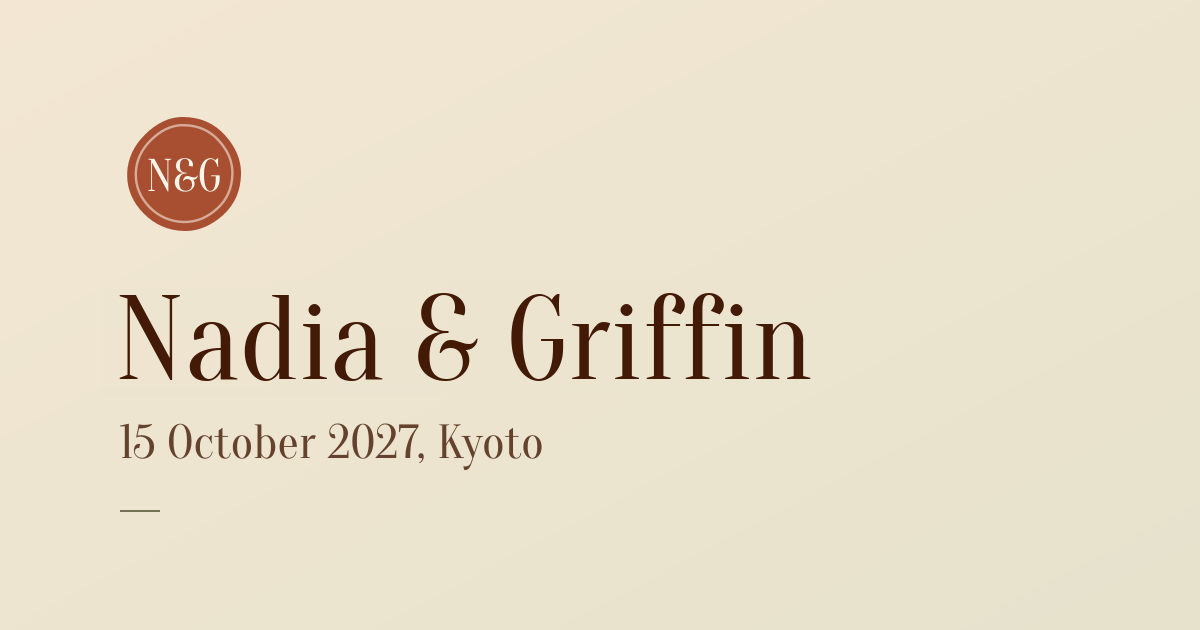
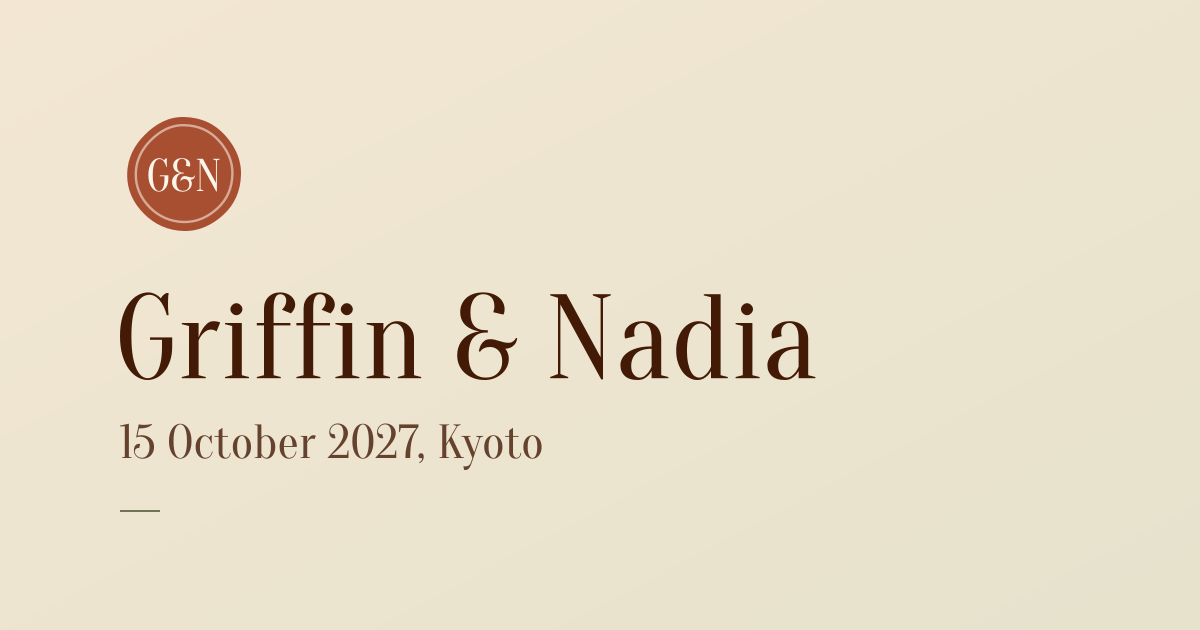
feat: put Griffin first in the names everywhere
The planner Q&A answer is "Griffin and Nadia". The site title, letter heading, meta tags, share image, seal, invite and confirmation emails, the Japanese and the name constants now lead with Griffin. Lines about one of them (Griffin in the cedars, each line on the map) name that person directly so they don't flip with the order.

Changed region(s): [[0.0925, 0.4524, 0.6783, 0.6032], [0.1233, 0.2413, 0.185, 0.3016]]

diff --git a/src/content/ja.ts b/src/content/ja.ts
@@ -12,15 +12,18 @@ const LOCK = "2027年4月30日（金）"
 const TRAVEL_FROM = "2027年9月1日（水）"
 const TRAVEL_TO = "2027年11月30日（火）"
 const CHANGE_BY = `${LOCK}まで、お返事は変更できます。`
-const A = "ナディア"
-const B = "グリフィン"
+const A = "グリフィン"
+const B = "ナディア"
+// Lines about one of them name that person, whatever the order
+const NADIA = "ナディア"
+const GRIFFIN = "グリフィン"
 const BOTH = `${A} & ${B}`
 
 export const ja: DeepPartial<Content> = {
-  meta: { shortTitle: "N&G", title: BOTH, eyebrow: "スーパーデューパー・ウェディング・エクストラバガンザ", fullTitle: "ナディア・バグリー & グリフィン・サダビー スーパーデューパー・ウェディング・エクストラバガンザ" },
+  meta: { shortTitle: "G&N", title: BOTH, eyebrow: "スーパーデューパー・ウェディング・エクストラバガンザ", fullTitle: "グリフィン・サダビー & ナディア・バグリー スーパーデューパー・ウェディング・エクストラバガンザ" },
   nav: { home: "ホーム", day: "当日", travel: "アクセス", faqs: "よくある質問", story: "ふたりのこと", rsvp: "出欠のお返事" },
   letter: {
-    signOff: "愛をこめて、N & G",
+    signOff: "愛をこめて、G & N",
     credit: "サイト制作：Jehan Baguley",
     skip: "本文へ移動",
     open: "タップしてひらく",
@@ -39,7 +42,7 @@ export const ja: DeepPartial<Content> = {
     "couple-dog-jumper": { alt: `セーターを着た犬と${A}と${B}`, caption: "お気に入りの一枚" },
     "trio-mountain-town": { alt: `山あいの町で家族と${A}と${B}`, caption: "家族との旅" },
     "torii-mist": { alt: "霧の中の赤い鳥居", caption: "道すがらの霧の鳥居" },
-    "griffin-cedar-forest": { alt: `杉の大木の間に立つ${B}`, caption: `杉林の${B}` },
+    "griffin-cedar-forest": { alt: `杉の大木の間に立つ${GRIFFIN}`, caption: `杉林の${GRIFFIN}` },
     "couple-osaka-castle": { alt: `大阪城の前に立つ${A}と${B}`, caption: "大阪に着くなら、お城も立ち寄る価値あり" },
     "yasaka-gate-shijo": { alt: "八坂神社の門から四条通を見下ろす", caption: "八坂神社から四条通を望む。会場から徒歩10分" },
     "higashiyama-bookshop": { alt: "東山の静かな通りと本屋", caption: "会場のある東山。坂を上れば清水寺" },
@@ -86,10 +89,10 @@ export const ja: DeepPartial<Content> = {
     review: "出発地", notSaying: "未回答",
     onMap: "あなたの線が地図に加わりました", seeIt: "地図を見る", notPicked: "出発地を選ぶと、あなたの線が地図に加わります。", pick: "都市を選ぶ",
     kyoto: "京都・2027年10月15日", brisbane: "ブリスベン", canada: "カナダ",
-    legend: { nadia: A, griffin: B, guests: "ゲスト", you: "あなたの線" },
+    legend: { nadia: NADIA, griffin: GRIFFIN, guests: "ゲスト", you: "あなたの線" },
     count: (n: number, of: number) => `${of}本中${n}本の線が描かれました`,
     backToFortune: "おみくじに戻る", seeList: "リストで見る", seeMap: "地図で見る",
-    list: { nadia: `${A}：ブリスベンから京都へ`, griffin: `${B}：カナダから京都へ`, you: (city: string) => `あなたの線：${city}から京都へ`, city: (city: string, n: number) => `${city}：${n}本` },
+    list: { nadia: `${NADIA}：ブリスベンから京都へ`, griffin: `${GRIFFIN}：カナダから京都へ`, you: (city: string) => `あなたの線：${city}から京都へ`, city: (city: string, n: number) => `${city}：${n}本` },
   },
   flying: { cities: { Brisbane: "ブリスベン", Melbourne: "メルボルン", Sydney: "シドニー", Perth: "パース", Adelaide: "アデレード", "Elsewhere in Australia": "オーストラリアのその他の地域", Canada: "カナダ", "Already in Japan": "日本国内から", "Somewhere else": "その他" }, title: "どちらから来られますか？", hint: "任意です。人数のみ表示し、お名前は表示しません。", thanks: "ありがとうございます。", yours: (city: string) => `${city}からの線を描きました。`, change: "変更" },
   fortune: { title: "旅のささやかなおみくじ", draw: "ひく", blessing: "大吉", blessingEn: "大吉", number: (n: number, of: number) => `第${n}番（全${of}番）`, save: "スマホに保存", copied: "コピーしました。メモに貼り付けてください。", hint: "箱をタップしてひいてください。", hintShake: "箱をタップするか、スマホを軽く振ってください。", boxLabel: "おみくじの箱。おみくじをひく", drawing: "箱を振っています…", onMap: "地図であなたの線を見る" },

diff --git a/src/content/en.ts b/src/content/en.ts
@@ -11,7 +11,7 @@ const LOCK = fmtDay(DATES.changesLock)
 const CHANGE_BY = `You can change your reply until ${LOCK}.`
 
 // The couple's names live here once. Swapping the order is this one line.
-export const COUPLE = { first: "Nadia", second: "Griffin" }
+export const COUPLE = { first: "Griffin", second: "Nadia" }
 
 // The venue for taxi drivers, in one place (Show the driver, the day sheet, Details).
 export const VENUE = {
@@ -38,6 +38,9 @@ export const FORTUNES = [
 ]
 const A = COUPLE.first
 const B = COUPLE.second
+// Lines about one of them (their photo, their line on the map) name that person, whatever the order
+const NADIA = "Nadia"
+const GRIFFIN = "Griffin"
 const BOTH = `${A} & ${B}`
 
 export const en = {
@@ -45,11 +48,11 @@ export const en = {
     shortTitle: `${A[0]}&${B[0]}`,
     title: `${BOTH}`,
     eyebrow: "The Super Duper Wedding Extravaganza",
-    fullTitle: `Nadia Baguley and Griffin Suddaby Super Duper Wedding Extravaganza`,
+    fullTitle: `Griffin Suddaby and Nadia Baguley Super Duper Wedding Extravaganza`,
   },
   nav: { home: "Home", day: "The day", travel: "Travel", faqs: "FAQs", story: "Our story", rsvp: "RSVP" },
   letter: {
-    signOff: "With love, N & G",
+    signOff: "With love, G & N",
     credit: "Site by Jehan Baguley",
     skip: "Skip to the letter",
     open: "Tap to open",
@@ -69,7 +72,7 @@ export const en = {
     "couple-dog-jumper": { alt: `${A} and ${B} with a dog in a jumper`, caption: "A fun one" },
     "trio-mountain-town": { alt: `${A} and ${B} with family in a mountain town`, caption: "A trip with family" },
     "torii-mist": { alt: "A red torii gate in the mist", caption: "Misty torii on the way" },
-    "griffin-cedar-forest": { alt: `${B} among tall cedar trees`, caption: `${B} in the cedars` },
+    "griffin-cedar-forest": { alt: `${GRIFFIN} among tall cedar trees`, caption: `${GRIFFIN} in the cedars` },
     "couple-osaka-castle": { alt: `${A} and ${B} in front of Osaka Castle`, caption: "If you fly into Osaka, the castle's worth a stop" },
     "yasaka-gate-shijo": { alt: "Looking down Shijo-dori from the gate of Yasaka Shrine", caption: "Looking down Shijo-dori from Yasaka Shrine, 10 minutes' walk from the venue" },
     "higashiyama-bookshop": { alt: "A quiet street and bookshop in Higashiyama", caption: "Higashiyama, the venue's neighbourhood. Kiyomizu-dera is up the hill" },
@@ -101,10 +104,10 @@ export const en = {
     review: "Flying from", notSaying: "Not saying",
     onMap: "Your line's on the map", seeIt: "See the map", notPicked: "Pick where you're flying from and your line joins the map.", pick: "Pick a city",
     kyoto: "Kyoto · 15 Oct 2027", brisbane: "Brisbane", canada: "Canada",
-    legend: { nadia: A, griffin: B, guests: "Guests", you: "Your line" },
+    legend: { nadia: NADIA, griffin: GRIFFIN, guests: "Guests", you: "Your line" },
     count: (n: number, of: number) => `${n} of ${of} lines drawn so far`,
     backToFortune: "Back to your fortune", seeList: "See as a list", seeMap: "See the map",
-    list: { nadia: `${A}: Brisbane to Kyoto`, griffin: `${B}: Canada to Kyoto`, you: (city: string) => `Your line: ${city} to Kyoto`, city: (city: string, n: number) => `${city}: ${n} ${n === 1 ? "line" : "lines"}` },
+    list: { nadia: `${NADIA}: Brisbane to Kyoto`, griffin: `${GRIFFIN}: Canada to Kyoto`, you: (city: string) => `Your line: ${city} to Kyoto`, city: (city: string, n: number) => `${city}: ${n} ${n === 1 ? "line" : "lines"}` },
   },
   fortune: { title: "A little fortune for the trip", draw: "Draw one", blessing: "大吉", blessingEn: "Great blessing", number: (n: number, of: number) => `No. ${n} of ${of}`, save: "Save to my phone", copied: "Copied. Paste it into your notes.", hint: "Tap the box to draw one.", hintShake: "Tap the box, or give your phone a little shake.", boxLabel: "The fortune box. Draw a fortune", drawing: "Shaking the box…", onMap: "See your line on the map" },
   driver: { label: "Taxi from Kyoto Station", fare: "15 to 20 minutes. Free in an MK Taxi with a ticket from the venue.", show: "Show the driver", maps: "Directions in Google Maps", mapsOpens: "opens Google Maps", english: "Please take me here", done: "Done", copy: "Copy address", copied: "Address copied" },

diff --git a/src/tune/options.ts b/src/tune/options.ts
@@ -34,7 +34,7 @@ export const OPTIONS: Option[] = [
   { key: "postcard", label: "After sending", flow: "RSVP", note: "Draw a fortune from the omikuji box, or a postcard: Sent on the front, turn it over for Griffin's fortune on the back.", values: [["off", "Omikuji box"], ["on", "Postcard"]] },
   { key: "sheetdrag", label: "Closing the sheet (phones)", flow: "RSVP", note: "X, Esc and Back to your invite always work; this adds a grab bar to drag the sheet down.", values: [["buttons", "Buttons only"], ["drag", "Drag down too"]] },
   { key: "datestyle", label: "Date", flow: "Home", note: "Under the names: the date and place as a sage badge, or as a second display line.", values: [["badge", "Badge"], ["line", "Display line"]] },
-  { key: "names", label: "Names on desktop", flow: "Home", note: "From 1024: Nadia & Griffin on two lines at 88, or on one line at 56.", values: [["two", "Two lines"], ["one", "One line"]] },
+  { key: "names", label: "Names on desktop", flow: "Home", note: "From 1024: Griffin & Nadia on two lines at 88, or on one line at 56.", values: [["two", "Two lines"], ["one", "One line"]] },
   { key: "count", label: "Countdown", flow: "Home", note: "Boxes sit inside the letter (Home stays one card) and flip only when a number changes; seconds sit in a box like the rest. The strip and tiles sit under the card.", values: [["boxes", "Boxes: days to seconds"], ["boxes-nosecs", "Boxes, no seconds"], ["days", "Days only"], ["strip", "Strip under the card"], ["tiles", "Tiles under the card"]] },
   { key: "ticks", label: "What's left, once done", flow: "Home", note: "After everything's ticked: keep the three ticked rows (a returning guest sees it's done), or hide them.", values: [["stay", "Keep"], ["hide", "Hide"]] },
   { key: "signoff", label: "Sign-off", flow: "Home", note: "\u201cWith love, N & G\u201d on Home only, or at the end of every page.", values: [["home", "Home only"], ["all", "Every page"]] },

diff --git a/index.html b/index.html
@@ -27,19 +27,19 @@
         window.__ngScene = { n: n, b: b }
       })()
     </script>
-    <meta property="og:title" content="Nadia & Griffin · Kyoto, 15 October 2027" />
+    <meta property="og:title" content="Griffin & Nadia · Kyoto, 15 October 2027" />
     <meta property="og:description" content="You're invited." />
     <meta property="og:type" content="website" />
     <meta property="og:image" content="https://griffin-nadia.github.io/wedding/og-image.png" />
     <meta property="og:image:width" content="1200" />
     <meta property="og:image:height" content="630" />
-    <meta property="og:image:alt" content="Nadia & Griffin, 15 October 2027, Kyoto" />
+    <meta property="og:image:alt" content="Griffin & Nadia, 15 October 2027, Kyoto" />
     <meta name="twitter:card" content="summary_large_image" />
-    <meta name="description" content="Nadia & Griffin's wedding, Fri 15 Oct 2027, The Sodoh Higashiyama, Kyoto." />
+    <meta name="description" content="Griffin & Nadia's wedding, Fri 15 Oct 2027, The Sodoh Higashiyama, Kyoto." />
     <link rel="icon" href="/favicon.svg" type="image/svg+xml" />
     <link rel="apple-touch-icon" href="/apple-touch-icon.png" />
     <link rel="manifest" href="/site.webmanifest" />
-    <title>Nadia & Griffin</title>
+    <title>Griffin & Nadia</title>
   </head>
   <body>
     <!-- Phones: their photo paints straight from HTML, the same markup as the app's scene; the app removes this

diff --git a/src/lib/calendar.ts b/src/lib/calendar.ts
@@ -15,7 +15,7 @@ export const directionsUrl = `https://www.google.com/maps/dir/?api=1&destination
 
 const esc = (s: string) => s.replace(/\\/g, "\\\\").replace(/[,;]/g, (c) => `\\${c}`).replace(/\n/g, "\\n")
 
-const title = "Nadia & Griffin's wedding"
+const title = "Griffin & Nadia's wedding"
 const details = `Ceremony 11:00 am in the garden (Japan time).\nMap: ${mapUrl}`
 
 /** Google Calendar's "add event" page, prefilled. Opens Google only when the guest taps it. */
@@ -27,7 +27,7 @@ export const googleCalendarUrl =
 /** An .ics file for the day: 11:00 am to 3:30 pm Japan time, with the venue and map link. */
 export function icsHref() {
   const ics = [
-    "BEGIN:VCALENDAR", "VERSION:2.0", "PRODID:-//N&G//Wedding//EN", "CALSCALE:GREGORIAN", "BEGIN:VEVENT",
+    "BEGIN:VCALENDAR", "VERSION:2.0", "PRODID:-//G&N//Wedding//EN", "CALSCALE:GREGORIAN", "BEGIN:VEVENT",
     "UID:nadia-griffin-2027@griffin-nadia.github.io", `DTSTAMP:${INVITED}`,
     `DTSTART:${START}`, `DTEND:${END}`,
     `SUMMARY:${esc(title)}`,
